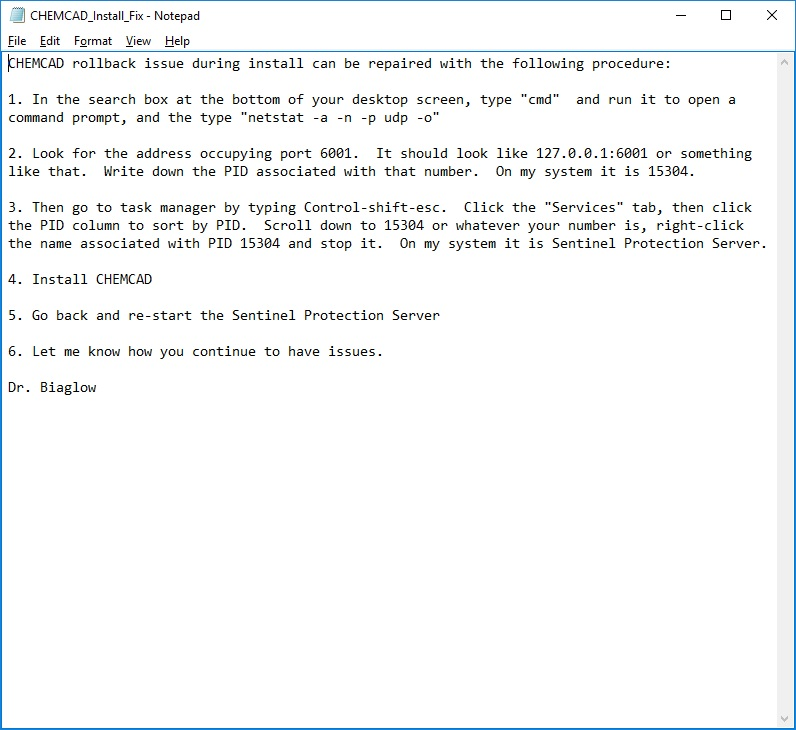
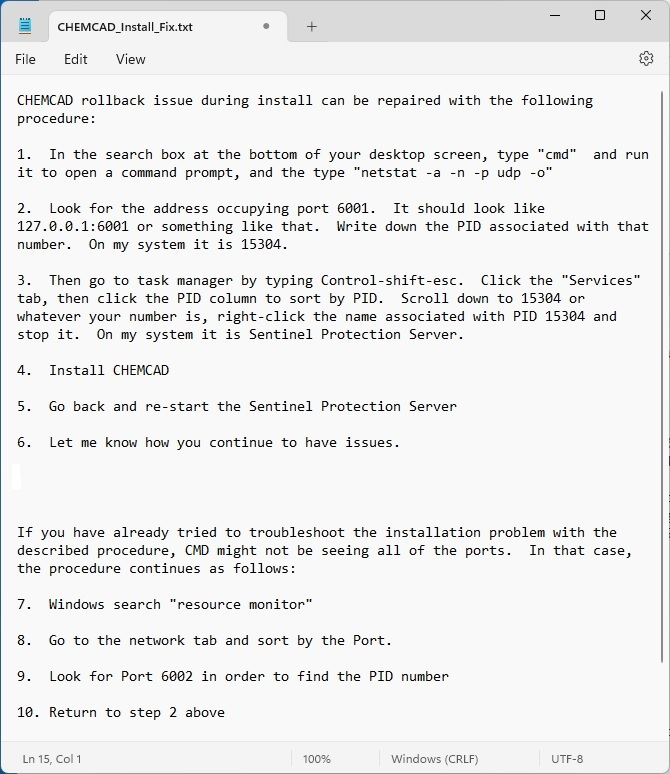
Update CHEMCAD instal fix
Updated CC install fix to shorten language around 2023 mods.

diff --git a/CH365/indexCH365.html b/CH365/indexCH365.html
@@ -5,7 +5,7 @@
 <head runat="server">
 <meta content="en-us" http-equiv="Content-Language" />
 <meta content="text/html; charset=windows-1252" http-equiv="Content-Type" />
-<title>CH365v29</title>
+<title>CH365v30</title>
 <style type="text/css">
 
   .auto-style2 {text-align: center;}
@@ -111,7 +111,7 @@ div.absolute8 {
 	<p style="margin-top: 5px; margin-bottom: 5px" class="auto-style7"><font face="Lucida Console">broken hyperlinks, conflicts, or</font></p>
 	<p style="margin-top: 5px; margin-bottom: 5px" class="auto-style7"><font face="Lucida Console">other issues to the attention of</font></p>
 	<p style="margin-top: 5px; margin-bottom: 5px" class="auto-style7"><font face="Lucida Console">your instructor.</font></p>
-	<p style="margin-top: 5px; margin-bottom: 5px" class="auto-style6"><font face="Lucida Console">Last Updated 26 September 2023</font></p>
+	<p style="margin-top: 5px; margin-bottom: 5px" class="auto-style6"><font face="Lucida Console">Last Updated 29 September 2023</font></p>
 </div>
 <!-- DISCLAIMER SCHEDULE SECTION - END -->
 
@@ -142,7 +142,7 @@ div.absolute8 {
   <tr><td><a class="auto-style3" href="admin/DAW_July_2017.pdf">Documentation of Academic Work</a></td></tr>
   <tr><td><a class="auto-style3" href="references/FE-Handbook-10-3.pdf">FE Reference Manual</a></td></tr>
   <tr><td><a class="auto-style3" href="admin/Printer.txt">Printer issues in Room 331</a></td></tr>
-  <tr><td><a class="auto-style3" href="admin/CHEMCAD_Install_Fix.txt">CHEMCAD Installation Fix</a><br></td></tr>
+  <tr><td><a class="auto-style3" href="admin/CHEMCAD_Install_Fix.jpg">CHEMCAD Installation Fix</a><br></td></tr>
   <tr><td><a class="auto-style3" href="admin/CHEMCAD_Lic_Serv_Instructions.pdf">CHEMCAD License Instructions</a></td></tr>
   <tr><td><a class="auto-style3">CHEMCAD License Server: WPWKDMCHEMENG</a><br>
   <tr><td></td></tr>
